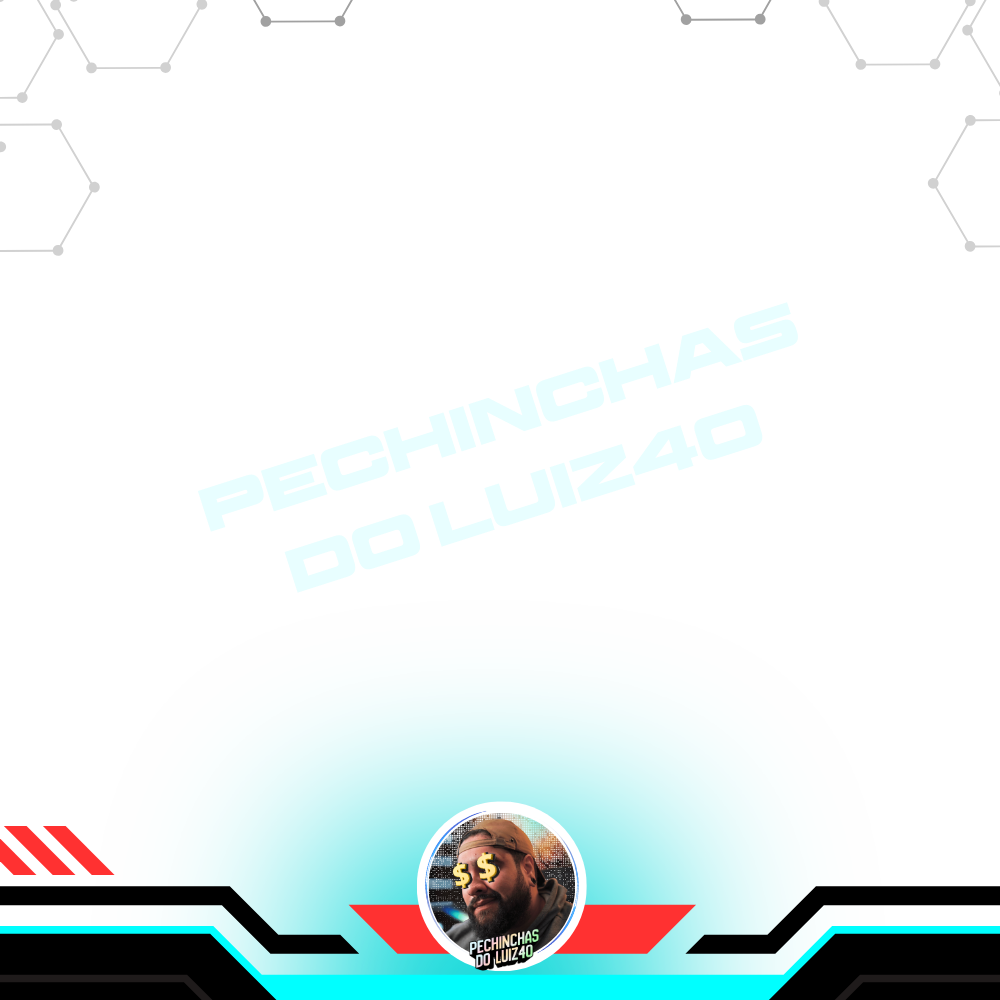
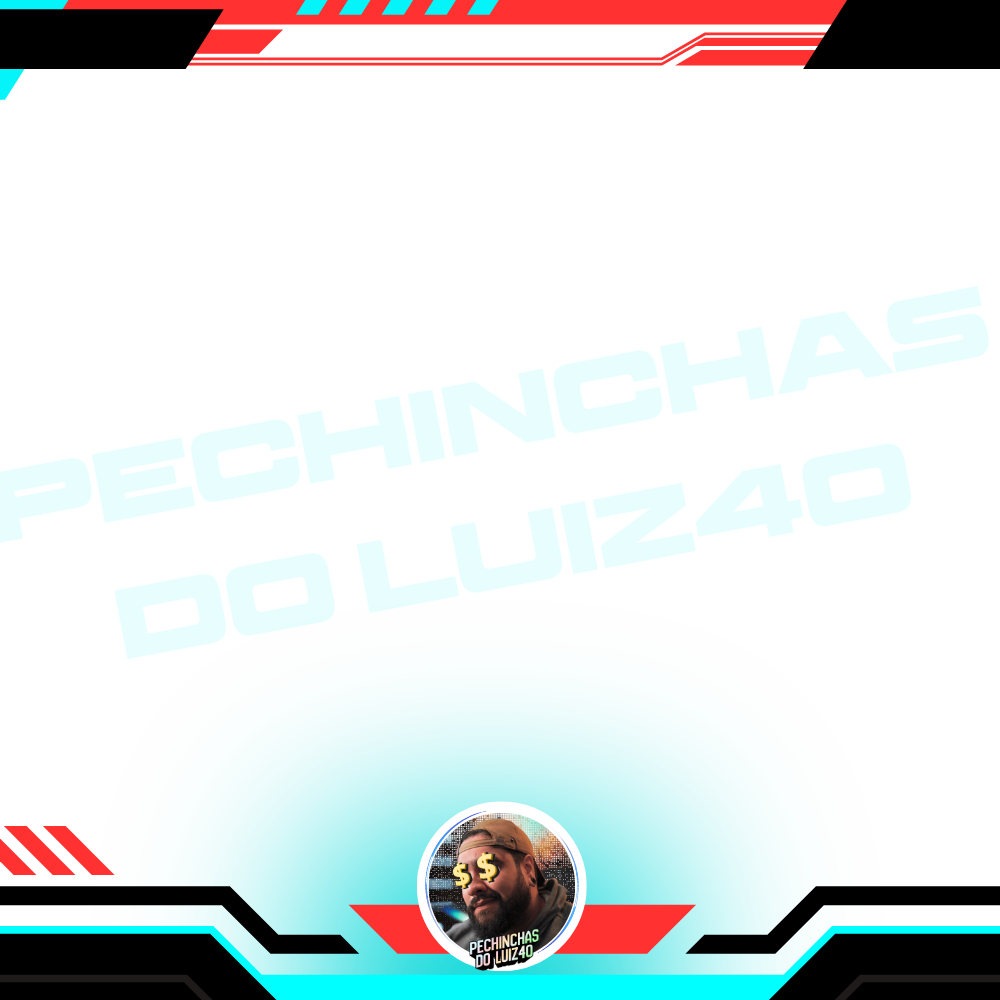
fix(watermark): support RGB frames by keying out white background

diff --git a/watermark.py b/watermark.py
@@ -16,30 +16,41 @@ def apply_watermark(base_image_path: str, watermark_path: str = "watermark.png")
         
     try:
         base_img = Image.open(base_image_path).convert("RGBA")
-        frame = Image.open(watermark_path).convert("RGBA")
+        frame = Image.open(watermark_path)
+        # Converte o frame para RGBA caso não seja
+        frame = frame.convert("RGBA")
         
-        # O tamanho final será exatamente igual ao tamanho do frame (PNG do usuário)
+        # Se o frame não tem transparência real (é tudo opaco), transformamos o branco em transparente
+        # Isso ajuda se o usuário salvou um PNG sem alfa ou um JPG por engano.
+        datas = frame.getdata()
+        new_data = []
+        for item in datas:
+            # Se for branco puro (ou quase branco para evitar compressão), torna transparente
+            if item[0] > 245 and item[1] > 245 and item[2] > 245:
+                new_data.append((255, 255, 255, 0))
+            else:
+                new_data.append(item)
+        frame.putdata(new_data)
+        
+        # O tamanho final será exatamente igual ao tamanho do frame
         frame_w, frame_h = frame.size
         
         # Cria um canvas com fundo branco sólido
         canvas = Image.new("RGBA", (frame_w, frame_h), (255, 255, 255, 255))
         
-        # O usuário quer um "zoom out", ou seja, que a foto do produto NÃO ocupe todo o frame.
-        # Vamos redimensionar a foto do produto para que ela ocupe cerca de 90% do menor lado.
+        # Redimensiona a foto do produto (90% do tamanho para zoom out)
         zoom_factor = 0.90
         target_size = (int(frame_w * zoom_factor), int(frame_h * zoom_factor))
-        
-        # Redimensiona mantendo a proporção (thumbnail) para não distorcer o produto
         base_img.thumbnail(target_size, Image.Resampling.LANCZOS)
         
-        # Calcula a posição centralizada
+        # Centraliza
         pos_x = (frame_w - base_img.width) // 2
         pos_y = (frame_h - base_img.height) // 2
         
-        # Cola o produto centralizado no canvas
+        # Cola o produto no canvas
         canvas.paste(base_img, (pos_x, pos_y), base_img if base_img.mode == 'RGBA' else None)
         
-        # Cola o Frame transparente por cima de tudo
+        # Cola o Frame transparente por cima
         canvas.paste(frame, (0, 0), frame)
         
         new_path = base_image_path.rsplit('.', 1)[0] + "_wm.png"
